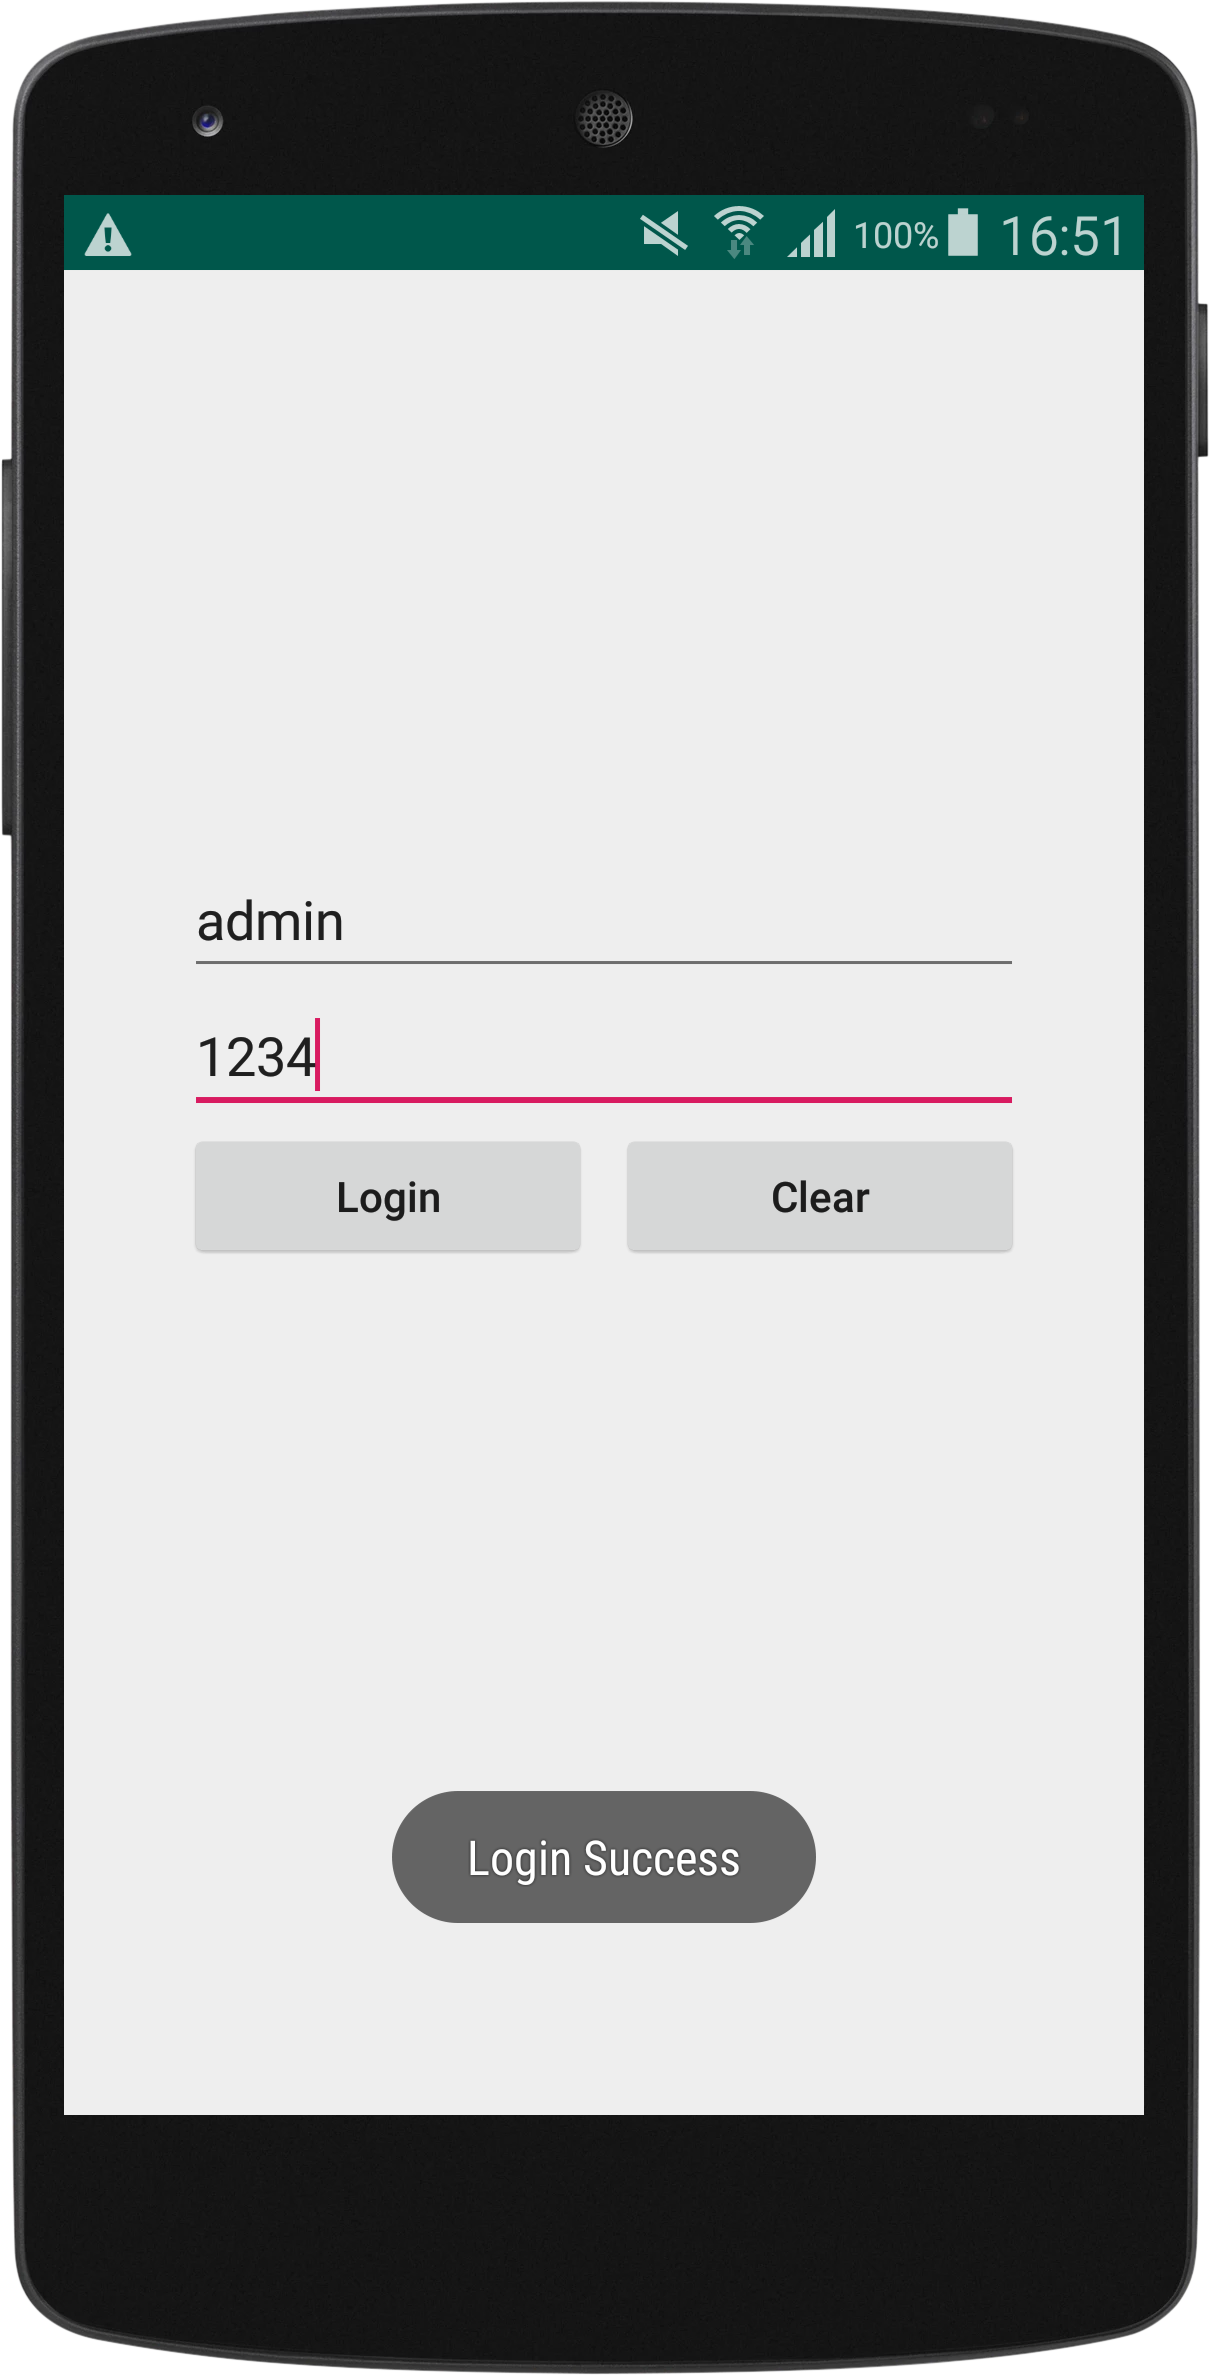
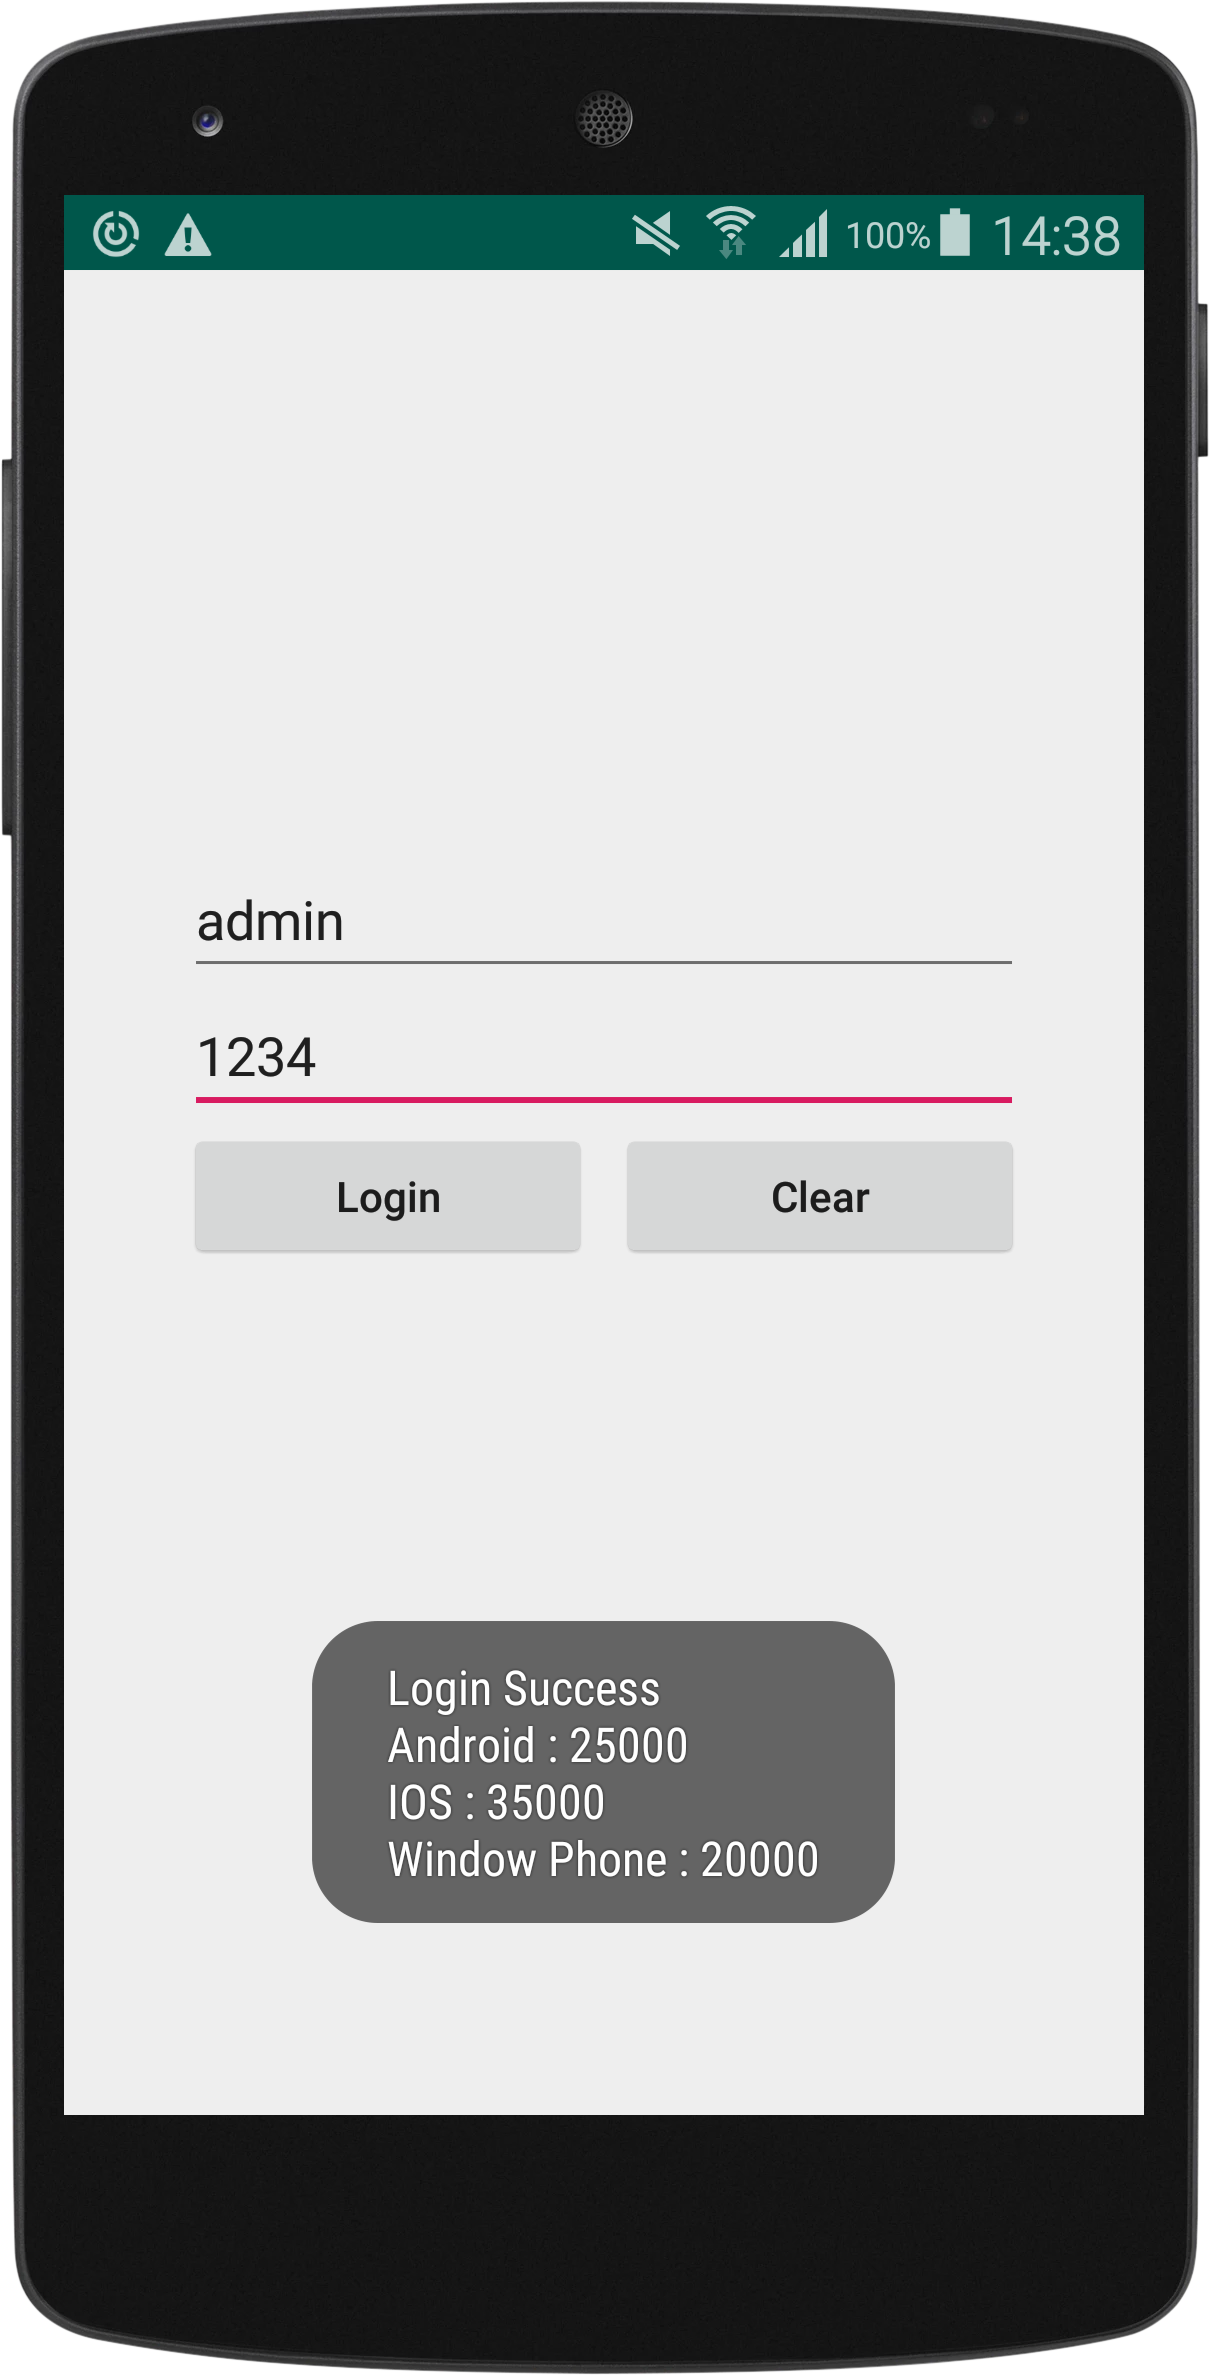
edit result

diff --git a/app/src/main/java/m/vk/j001_loginmvp/view/LoginActivity.java b/app/src/main/java/m/vk/j001_loginmvp/view/LoginActivity.java
@@ -1,4 +1,4 @@
-package m.vk.j001_loginmvp;
+package m.vk.j001_loginmvp.view;
 
 import androidx.appcompat.app.AppCompatActivity;
 
@@ -9,11 +9,14 @@ import android.widget.EditText;
 import android.widget.ProgressBar;
 import android.widget.Toast;
 
+import java.util.List;
+
+import m.vk.j001_loginmvp.R;
+import m.vk.j001_loginmvp.model.ProductModel;
 import m.vk.j001_loginmvp.presenter.ILoginPresenter;
 import m.vk.j001_loginmvp.presenter.LoginPresenterCompI;
-import m.vk.j001_loginmvp.view.ILoginView;
 
-public class MainActivity extends AppCompatActivity implements ILoginView , View.OnClickListener {
+public class LoginActivity extends AppCompatActivity implements ILoginView , View.OnClickListener {
 
     private EditText edUser;
     private EditText edPass;
@@ -25,7 +28,7 @@ public class MainActivity extends AppCompatActivity implements ILoginView , View
     @Override
     protected void onCreate(Bundle savedInstanceState) {
         super.onCreate(savedInstanceState);
-        setContentView(R.layout.activity_main);
+        setContentView(R.layout.activity_login);
 
         //find view
         edUser = findViewById(R.id.edUsername);
@@ -51,12 +54,19 @@ public class MainActivity extends AppCompatActivity implements ILoginView , View
     }
 
     @Override
-    public void onLoginResult(Boolean result, int code) {
+    public void onLoginResult(Boolean result, int code, List<ProductModel> arrProduct) {
         loginPresenter.setProgressBarVisibility(View.INVISIBLE);
         btnLogin.setEnabled(true);
         btnClear.setEnabled(true);
         if (result){
-            Toast.makeText(this,"Login Success",Toast.LENGTH_SHORT).show();
+            String product = "";
+            for (int i = 0; i < arrProduct.size(); i++) {
+                if (product.length() > 0){
+                    product += "\n";
+                }
+                product += arrProduct.get(i).getName() + " : " + arrProduct.get(i).getPrice();
+            }
+            Toast.makeText(this,"Login Success \n" + product,Toast.LENGTH_SHORT).show();
         }
         else {
             Toast.makeText(this, "Login Fail, code = " + code, Toast.LENGTH_SHORT).show();

diff --git a/app/src/main/java/m/vk/j001_loginmvp/presenter/LoginPresenterCompI.java b/app/src/main/java/m/vk/j001_loginmvp/presenter/LoginPresenterCompI.java
@@ -3,18 +3,18 @@ package m.vk.j001_loginmvp.presenter;
 import android.os.Handler;
 import android.os.Looper;
 
-import m.vk.j001_loginmvp.model.IUser;
-import m.vk.j001_loginmvp.model.UserModel;
+import java.util.ArrayList;
+import java.util.List;
+
+import m.vk.j001_loginmvp.model.ProductModel;
 import m.vk.j001_loginmvp.view.ILoginView;
 
 public class LoginPresenterCompI implements ILoginPresenter{
     ILoginView iLoginView;
-    IUser iUser;
     Handler handler;
 
     public LoginPresenterCompI(ILoginView iLoginView){
         this.iLoginView = iLoginView;
-        initUser();
         handler = new Handler(Looper.getMainLooper());
     }
 
@@ -27,12 +27,19 @@ public class LoginPresenterCompI implements ILoginPresenter{
     public void doLoin(String name, String passwd) {
         //check login to server for you
 
-        final int code = iUser.checkUserValidity(name,passwd);
+        final int code = (((name.trim().equals("admin")) && (passwd.trim().equals("1234"))) ? 0 : -1);
         final boolean result = (code == 0) ? true : false;
         handler.postDelayed(new Runnable() {
             @Override
             public void run() {
-                iLoginView.onLoginResult(result,code);
+                //add product to model and send for you
+                List<ProductModel> arrProduct = new ArrayList<>();
+                if (result){
+                    arrProduct.add(new ProductModel("Android",25000));
+                    arrProduct.add(new ProductModel("IOS",35000));
+                    arrProduct.add(new ProductModel("Window Phone",20000));
+                }
+                iLoginView.onLoginResult(result,code,arrProduct);
             }
         },5000);
     }
@@ -41,9 +48,4 @@ public class LoginPresenterCompI implements ILoginPresenter{
     public void setProgressBarVisibility(int visibility) {
         iLoginView.onSetProgressBarVisibility(visibility);
     }
-
-    private void initUser(){
-        iUser = new UserModel("admin","1234");
-    }
-
 }

diff --git a/app/src/main/java/m/vk/j001_loginmvp/model/ProductModel.java b/app/src/main/java/m/vk/j001_loginmvp/model/ProductModel.java
@@ -1,0 +1,52 @@
+package m.vk.j001_loginmvp.model;
+
+import android.os.Parcel;
+import android.os.Parcelable;
+
+public class ProductModel implements  Parcelable {
+    //Model จะเก็บข้อมูลอะไรบ้าง
+    String name;
+    int price;
+
+    public ProductModel(String name, int price){
+        this.name = name;
+        this.price = price;
+    }
+
+    protected ProductModel(Parcel in) {
+        name = in.readString();
+        price = in.readInt();
+    }
+
+    public String getName() {
+        return name;
+    }
+
+    public int getPrice() {
+        return price;
+    }
+
+    public static final Creator<ProductModel> CREATOR = new Creator<ProductModel>() {
+        @Override
+        public ProductModel createFromParcel(Parcel in) {
+            return new ProductModel(in);
+        }
+
+        @Override
+        public ProductModel[] newArray(int size) {
+            return new ProductModel[size];
+        }
+    };
+
+
+    @Override
+    public int describeContents() {
+        return 0;
+    }
+
+    @Override
+    public void writeToParcel(Parcel parcel, int i) {
+        parcel.writeString(name);
+        parcel.writeInt(price);
+    }
+}

diff --git a/app/src/main/java/m/vk/j001_loginmvp/view/ILoginView.java b/app/src/main/java/m/vk/j001_loginmvp/view/ILoginView.java
@@ -1,8 +1,13 @@
 package m.vk.j001_loginmvp.view;
 
+
+import java.util.List;
+
+import m.vk.j001_loginmvp.model.ProductModel;
+
 public interface ILoginView {
-    //View จะให้ทำอะไรบ้าง
+    //Presenter ตัวนั้นส่งค่าอะไรไปให้ View ตัวที่ถืออยู่แสดงผล หรือ ให้ View แสดงผล/ทำ อะไรบ้าง
     void onClearText();
-    void onLoginResult(Boolean result,int code);
+    void onLoginResult(Boolean result, int code, List<ProductModel> arrProduct);
     void onSetProgressBarVisibility(int visibility);
 }

diff --git a/app/src/main/java/m/vk/j001_loginmvp/presenter/ILoginPresenter.java b/app/src/main/java/m/vk/j001_loginmvp/presenter/ILoginPresenter.java
@@ -1,6 +1,7 @@
 package m.vk.j001_loginmvp.presenter;
 
 public interface ILoginPresenter {
+    //เพื่อให้ View ตัวนั้นสามารถสั่งให้ Presenter ที่ถืออยู่ทำอะไรเมื่อเกิด Event ขึ้น หรือให้ Presenter อะไรบ้าง
     void clear();
     void doLoin(String name,String passwd);
     void setProgressBarVisibility(int visibility);
